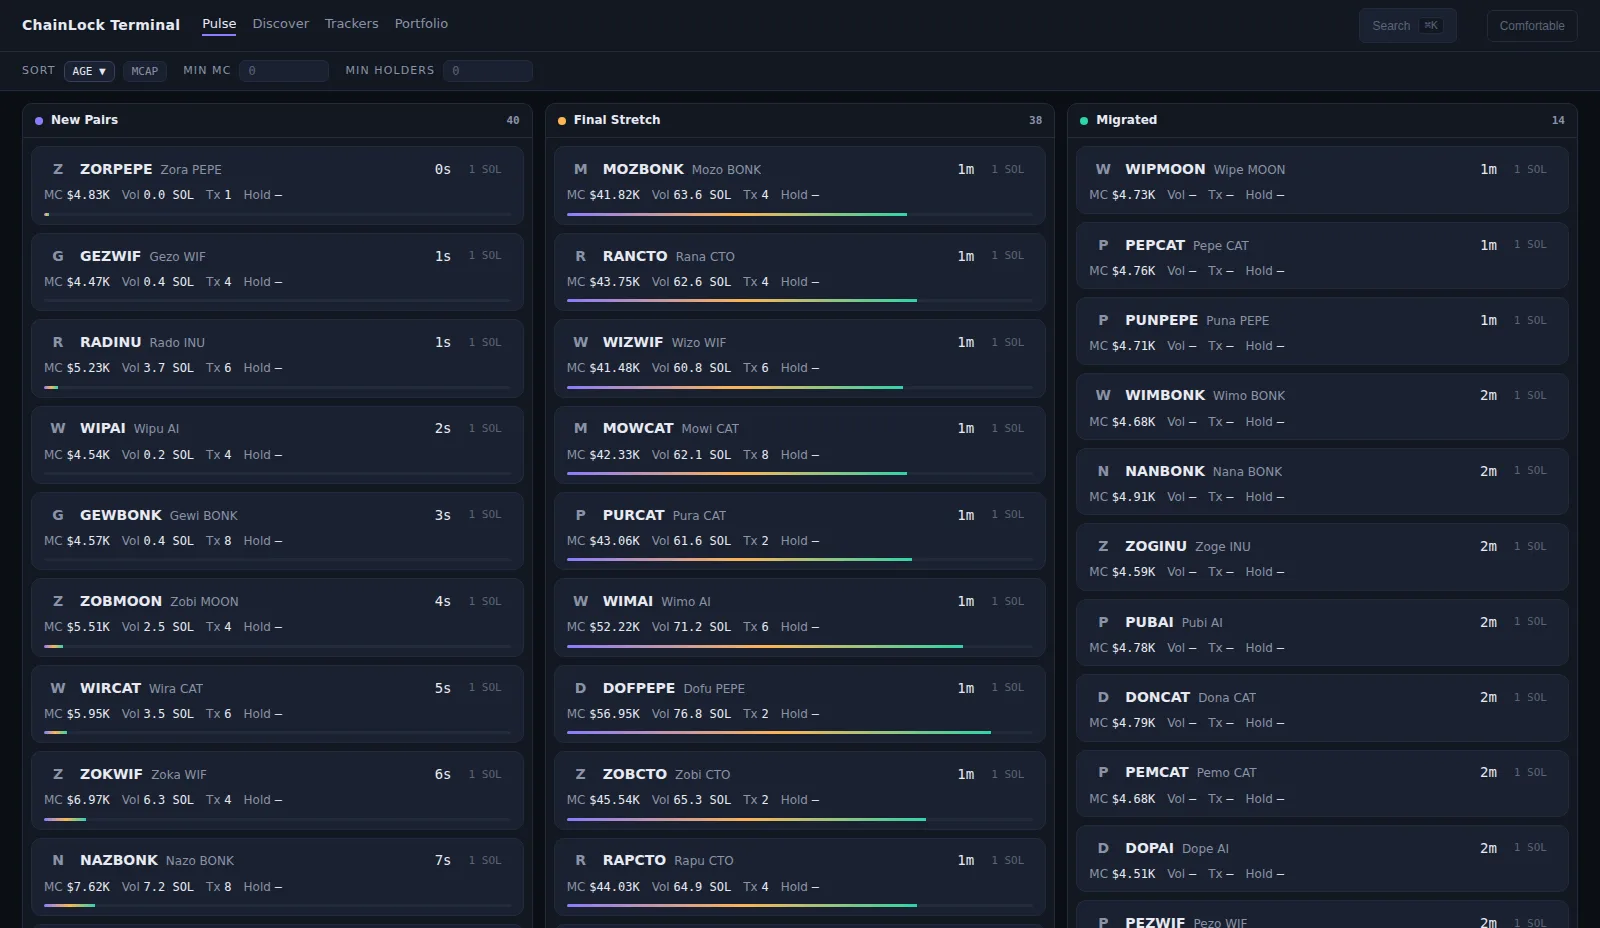
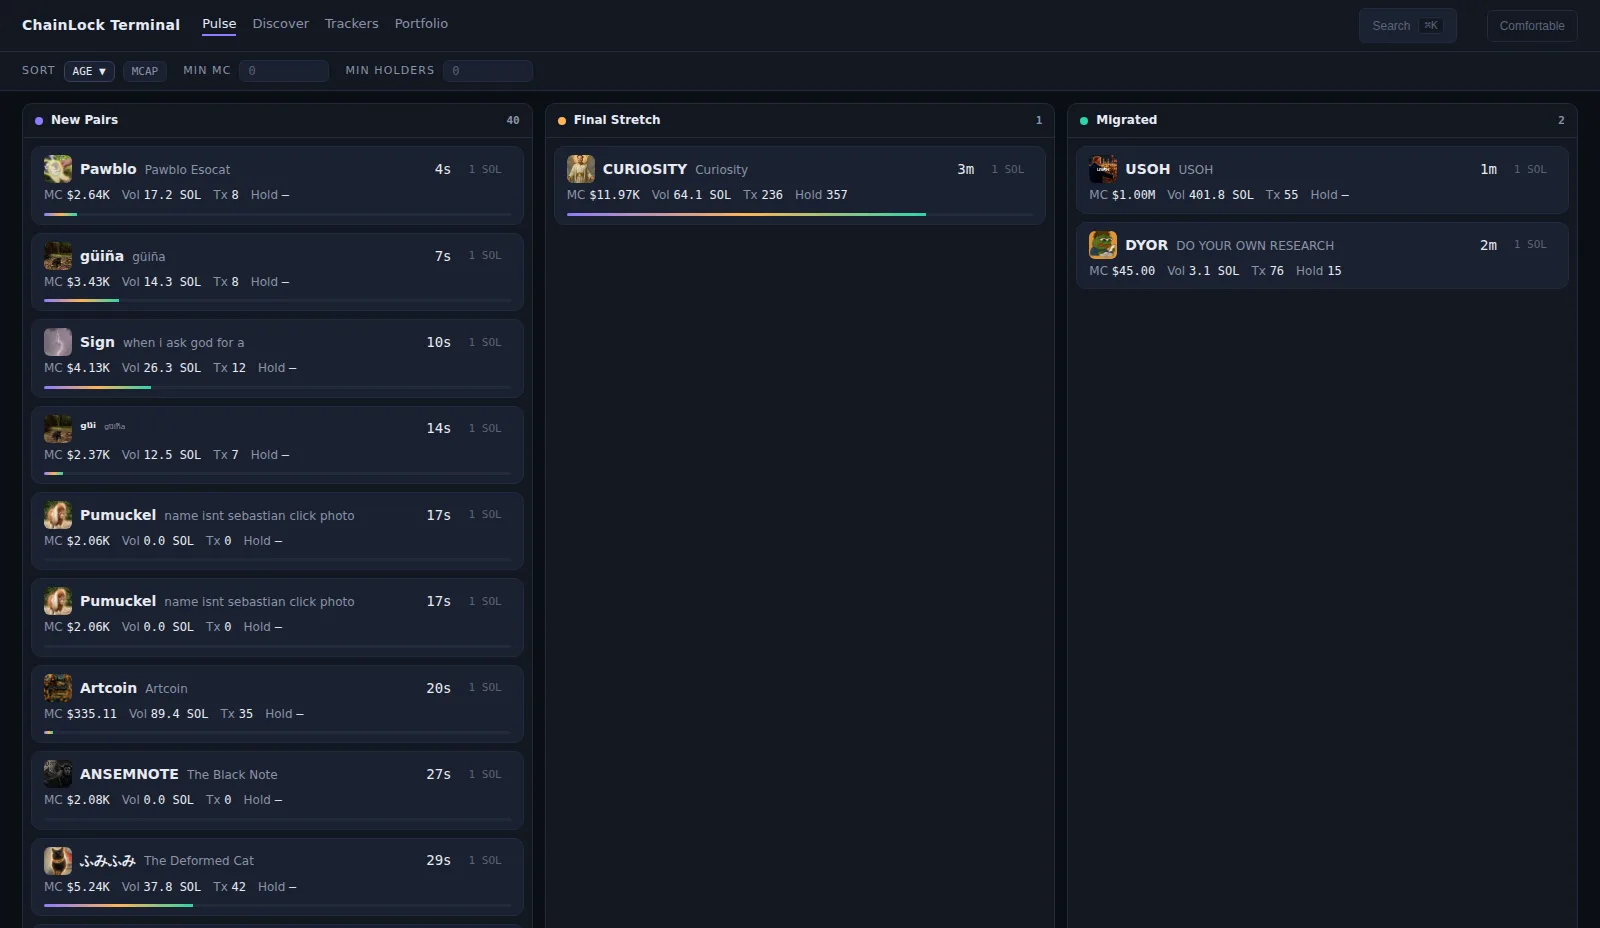
Update roadmap for paper-trading ship, set launch fuse to 44%
Moves Paper trading into the shipped column with a "market orders live"
badge (phase 4 slice 1), and gives wallet-tracking its own card.

Launch fuse drops 65% -> 44%: Collin's call, deliberately set below the
phase-week-weighted estimate the old comment described. The comment now
says so, since a progress bar moving backwards otherwise reads as a bug.

Also replaces em dashes with colons/commas throughout, and recompresses
pulse-preview.webp 81KB -> 47KB (same 1600x928 image).

diff --git a/site/index.html b/site/index.html
@@ -3,7 +3,7 @@
 <head>
 <meta charset="UTF-8" />
 <meta name="viewport" content="width=device-width, initial-scale=1.0" />
-<title>Chainlock — the first surveillance-focused Solana terminal</title>
+<title>Chainlock: the first surveillance-focused Solana terminal</title>
 <meta name="description" content="Chainlock is the first surveillance-focused Solana trading terminal. The whole market on screen: insiders mapped, rats flagged, rugs called early. Launching soon." />
 <link rel="canonical" href="https://chainlock.gg/" />
 <meta name="theme-color" content="#0b0e14" />
@@ -11,10 +11,10 @@
 <meta property="og:type" content="website" />
 <meta property="og:url" content="https://chainlock.gg/" />
 <meta property="og:site_name" content="Chainlock" />
-<meta property="og:title" content="Chainlock — the first surveillance-focused Solana terminal" />
+<meta property="og:title" content="Chainlock: the first surveillance-focused Solana terminal" />
 <meta property="og:description" content="The whole market on screen. Insiders mapped, rats flagged, rugs called early. No rats. No rugs. Launching soon." />
 <meta name="twitter:card" content="summary" />
-<meta name="twitter:title" content="Chainlock — the first surveillance-focused Solana terminal" />
+<meta name="twitter:title" content="Chainlock: the first surveillance-focused Solana terminal" />
 <meta name="twitter:description" content="The whole market on screen. Insiders mapped, rats flagged, rugs called early. Launching soon." />
 <link rel="preconnect" href="https://fonts.googleapis.com" />
 <link rel="preconnect" href="https://fonts.gstatic.com" crossorigin />
@@ -633,16 +633,16 @@
       <h1>Lock<br /><span class="grad">TF in.</span></h1>
 
       <p class="sub">
-        <strong>Chainlock</strong> puts the whole market on screen — live discovery,
+        <strong>Chainlock</strong> puts the whole market on screen: live discovery,
         one-click execution, perps, portfolio, and surveillance on every wallet that
         matters. Dev sells, sniper clusters, insider flow: flagged before they move
         on you. <strong>No rats. No rugs.</strong>
       </p>
 
-      <div class="fuse" role="img" aria-label="Launch progress: 65 percent">
+      <div class="fuse" role="img" aria-label="Launch progress: 44 percent">
         <div class="fuse-head">
           <span class="l">Launch fuse</span>
-          <span class="r" id="fusePct">65%</span>
+          <span class="r" id="fusePct">44%</span>
         </div>
         <div class="fuse-track">
           <div class="fuse-fill" id="fuseFill"></div>
@@ -658,7 +658,7 @@
         <button type="submit">Get the launch ping</button>
       </form>
       <div id="tsBox"></div>
-      <div class="notify-err" id="notifyErr">Couldn&rsquo;t lock you in &mdash; try again in a sec.</div>
+      <div class="notify-err" id="notifyErr">Couldn&rsquo;t lock you in, try again in a sec.</div>
       <div class="notify-done" id="notifyDone">Locked in. We'll ping you at launch.</div>
 
       <div class="altpath" aria-hidden="true">
@@ -670,7 +670,7 @@
         <svg width="26" height="26" viewBox="0 0 24 24" aria-hidden="true"><path d="M20.317 4.3698a19.7913 19.7913 0 00-4.8851-1.5152.0741.0741 0 00-.0785.0371c-.211.3753-.4447.8648-.6083 1.2495-1.8447-.2762-3.68-.2762-5.4868 0-.1636-.3933-.4058-.8742-.6177-1.2495a.077.077 0 00-.0785-.037 19.7363 19.7363 0 00-4.8852 1.515.0699.0699 0 00-.0321.0277C.5334 9.0458-.319 13.5799.0992 18.0578a.0824.0824 0 00.0312.0561c2.0528 1.5076 4.0413 2.4228 5.9929 3.0294a.0777.0777 0 00.0842-.0276c.4616-.6304.8731-1.2952 1.226-1.9942a.076.076 0 00-.0416-.1057c-.6528-.2476-1.2743-.5495-1.8722-.8923a.077.077 0 01-.0076-.1277c.1258-.0943.2517-.1923.3718-.2914a.0743.0743 0 01.0776-.0105c3.9278 1.7933 8.18 1.7933 12.0614 0a.0739.0739 0 01.0785.0095c.1202.099.246.1981.3728.2924a.077.077 0 01-.0066.1276 12.2986 12.2986 0 01-1.873.8914.0766.0766 0 00-.0407.1067c.3604.698.7719 1.3628 1.225 1.9932a.076.076 0 00.0842.0286c1.961-.6067 3.9495-1.5219 6.0023-3.0294a.077.077 0 00.0313-.0552c.5004-5.177-.8382-9.6739-3.5485-13.6604a.061.061 0 00-.0312-.0286zM8.02 15.3312c-1.1825 0-2.1569-1.0857-2.1569-2.419 0-1.3332.9555-2.4189 2.157-2.4189 1.2108 0 2.1757 1.0952 2.1568 2.419 0 1.3332-.9555 2.4189-2.1569 2.4189zm7.9748 0c-1.1825 0-2.1569-1.0857-2.1569-2.419 0-1.3332.9554-2.4189 2.1569-2.4189 1.2108 0 2.1757 1.0952 2.1568 2.419 0 1.3332-.946 2.4189-2.1568 2.4189Z"/></svg>
         <span>
           <strong>Join the Discord</strong>
-          <small>Early access before launch &mdash; our trading bots are already live in there.</small>
+          <small>Early access before launch, our trading bots are already live in there.</small>
         </span>
       </a>
     </section>
@@ -683,7 +683,7 @@
     <section class="board">
       <h2 class="board-title">What's on <span class="grad">the board</span></h2>
       <p class="board-sub">
-        Surveillance cuts both ways — so our own build sits under the lamp.
+        Surveillance cuts both ways, so our own build sits under the lamp.
         Every surface, real status, tracked like a token burning toward migration.
         Nothing hidden, nothing pre-sold.
       </p>
@@ -698,7 +698,7 @@
           <div class="col-head" style="color: var(--col-migrated);">
             <span class="dot dot--teal" aria-hidden="true"></span>
             Migrated · live
-            <span class="col-count">4</span>
+            <span class="col-count">3</span>
           </div>
           <div class="card card--live">
             <div class="card-top">
@@ -713,7 +713,7 @@
               <div class="avatar">D</div>
               <div class="card-name">Discover</div>
             </div>
-            <p class="card-desc">Every tradable token in one dense table — ranked by volume, age, and mcap across time windows.</p>
+            <p class="card-desc">Every tradable token in one dense table, ranked by volume, age, and mcap across time windows.</p>
             <span class="badge">shipped</span>
           </div>
           <div class="card card--live">
@@ -721,15 +721,7 @@
               <div class="avatar">W</div>
               <div class="card-name">Trackers</div>
             </div>
-            <p class="card-desc">Tail any wallet — their trades hit your feed the second they land on chain. (X/Twitter feed still on the roadmap.)</p>
-            <span class="badge">shipped</span>
-          </div>
-          <div class="card card--live">
-            <div class="card-top">
-              <div class="avatar">PT</div>
-              <div class="card-name">Paper trading</div>
-            </div>
-            <p class="card-desc">Real bonding-curve and Jupiter-quote fills, a live portfolio ledger, real PnL. Practice mode today, becomes the real thing once we're past the legal gate.</p>
+            <p class="card-desc">Tail any wallet: their trades hit your feed the second they land on chain. (X/Twitter feed still on the roadmap.)</p>
             <span class="badge">shipped</span>
           </div>
         </div>
@@ -738,7 +730,7 @@
           <div class="col-head" style="color: var(--col-stretch);">
             <span class="dot dot--amber" aria-hidden="true"></span>
             Final stretch
-            <span class="col-count">1</span>
+            <span class="col-count">2</span>
           </div>
           <div class="card card--fire">
             <div class="card-top">
@@ -747,6 +739,14 @@
             </div>
             <p class="card-desc">Chart, trade panel, live data tables. Presets in, order out, zero page-hopping.</p>
             <span class="badge">charts + execution</span>
+          </div>
+          <div class="card card--fire">
+            <div class="card-top">
+              <div class="avatar">PT</div>
+              <div class="card-name">Paper trading</div>
+            </div>
+            <p class="card-desc">Real bonding-curve and Jupiter-quote fills, a live portfolio ledger, real PnL. Practice mode today, becomes the real thing once we're past the legal gate.</p>
+            <span class="badge">market orders live</span>
           </div>
         </div>
 
@@ -761,7 +761,7 @@
               <div class="avatar">IS</div>
               <div class="card-name">Insider surveillance</div>
             </div>
-            <p class="card-desc">The infrastructure layer: dev wallets, sniper clusters, bundlers, and fresh-wallet funding trails mapped live — rats flagged on every token before you click buy.</p>
+            <p class="card-desc">The infrastructure layer: dev wallets, sniper clusters, bundlers, and fresh-wallet funding trails mapped live. Rats flagged on every token before you click buy.</p>
             <span class="badge">planned</span>
           </div>
           <div class="card card--deck">
@@ -777,7 +777,7 @@
               <div class="avatar">Pf</div>
               <div class="card-name">Portfolio</div>
             </div>
-            <p class="card-desc">Live-money spot and perps in one place — real positions, PnL, history, once we're past the legal gate.</p>
+            <p class="card-desc">Live-money spot and perps in one place: real positions, PnL, history, once we're past the legal gate.</p>
             <span class="badge">planned</span>
           </div>
           <div class="card card--deck">
@@ -809,9 +809,8 @@
   var reduceMotion = window.matchMedia("(prefers-reduced-motion: reduce)").matches;
 
   // ---- light the fuse ----
-  var TARGET = 65; // phases 0-5 = MVP (PLAN.md): 0-3 shipped in full, phase 4 mostly (slice 1 shipped,
-  // slice 2 -- limit/TP-SL/blotter -- not started), phase 5 (surveillance) not started.
-  // Recalc if phase status moves; see chainlock-terminal/PLAN.md and second-brain status note.
+  var TARGET = 44; // Collin's call, set below the phase-week-weighted 65% estimate --
+  // see commit history/second-brain for that math. Recalc if phase status moves.
   requestAnimationFrame(function () {
     requestAnimationFrame(function () {
       document.getElementById("fuseFill").style.width = TARGET + "%";
